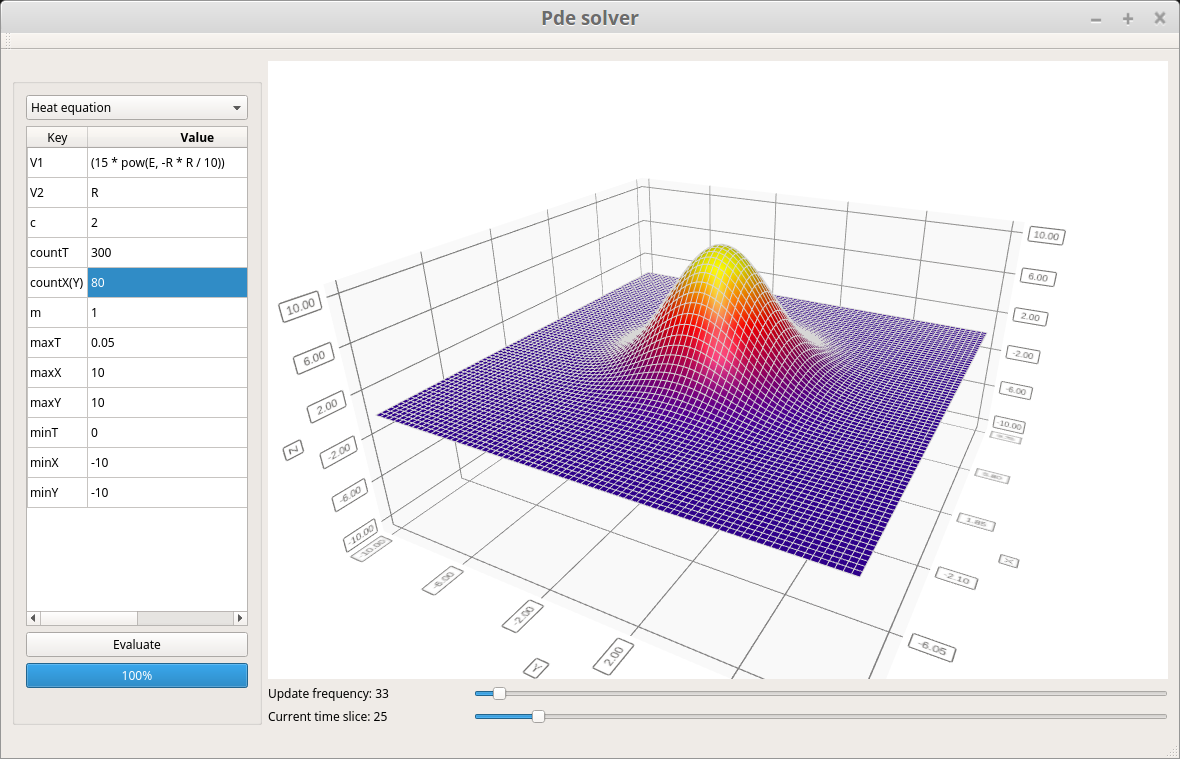
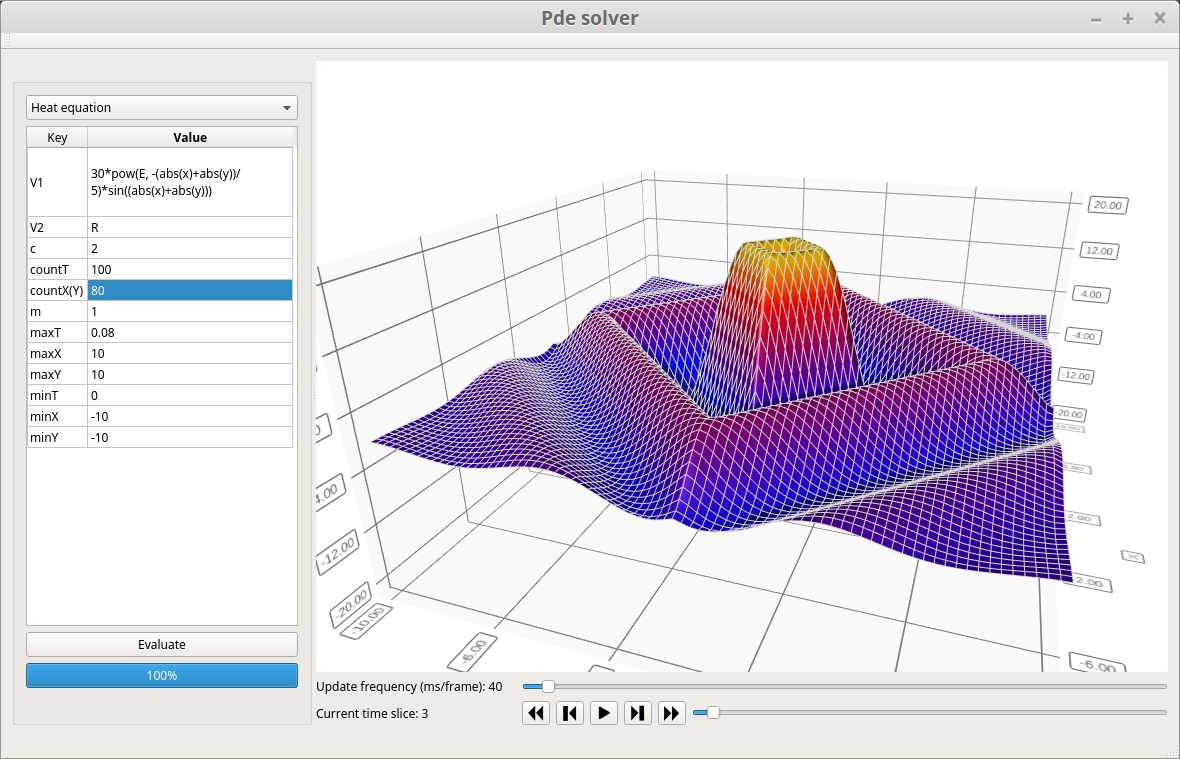
small changes

diff --git a/pde_solver/pde_settings.h b/pde_solver/pde_settings.h
@@ -42,7 +42,7 @@ public:
     float minY = -10.0f;    /**< The minimum Y value of the grid */
     float maxY = 10.0f;     /**< The maximum Y value of the grid */
     float minT = 0.0f;      /**< The minimum T value of the grid */
-    float maxT = 0.05f;     /**< The maximum T value of the grid */
+    float maxT = 0.08f;     /**< The maximum T value of the grid */
 
     float stepX;  /**< The step along the X axis */
     float stepY;  /**< The step along the Y axis */
@@ -84,7 +84,7 @@ public:
     QVariantMap getQVariantMapToolTips() const;
 
 private:
-    QString V1_str = "(15 * pow(E, -R * R / 100)) * (sin(R * 2))";
+    QString V1_str = "30*pow(E, -(abs(x)+abs(y))/5)*sin((abs(x)+abs(y)))";
     QString V2_str = "R";
 
     float evaluate_expression(QString expression, QVector2D x) const;

diff --git a/pde_solver/pde_solver_base.h b/pde_solver/pde_solver_base.h
@@ -19,7 +19,7 @@
  * @brief The base class for pde solvers.
  *
  * PdeSolverBase is the base class for pde solvers that are used for generating numerical solutions of pde equations.\n
- * For inheiting please implement the get_solution(const PdeSettings& set) method. The output data must be emited in a form of a Qt signal solution_generated(PdeSolverBase::GraphSolution_t).
+ * For inheriting please implement the get_solution(const PdeSettings& set) method. The output data must be emited in a form of a Qt signal solution_generated(PdeSolverBase::GraphSolution_t).
  */
 class PdeSolverBase : public QObject
 {

diff --git a/gui_app/mainwindow.cpp b/gui_app/mainwindow.cpp
@@ -293,8 +293,9 @@ void MainWindow::init_PdeSettingsTableWidget(const PdeSettings& set)
 		++n_row;
 	}
 
-    //ui.PdeSettingsTableWidget->resizeRowsToContents();
+    ui.PdeSettingsTableWidget->resizeRowsToContents();
     ui.PdeSettingsTableWidget->resizeColumnsToContents();
+    ui.PdeSettingsTableWidget->setColumnWidth(1, 205);
 }
 
 std::shared_ptr<PdeSettings> MainWindow::init_pde_settings(QString pde_settings_filename)
